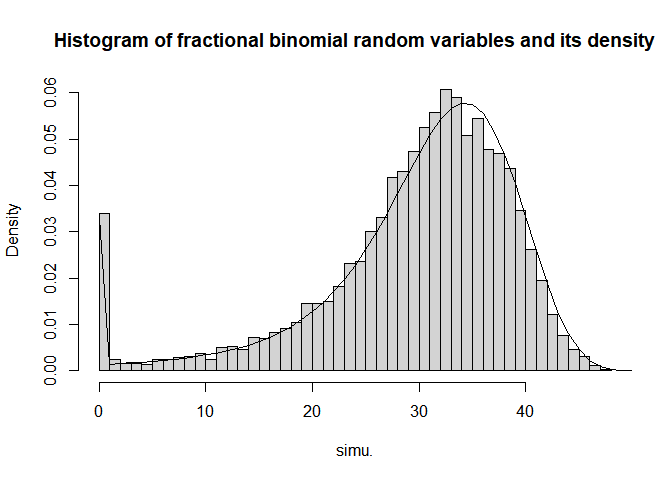
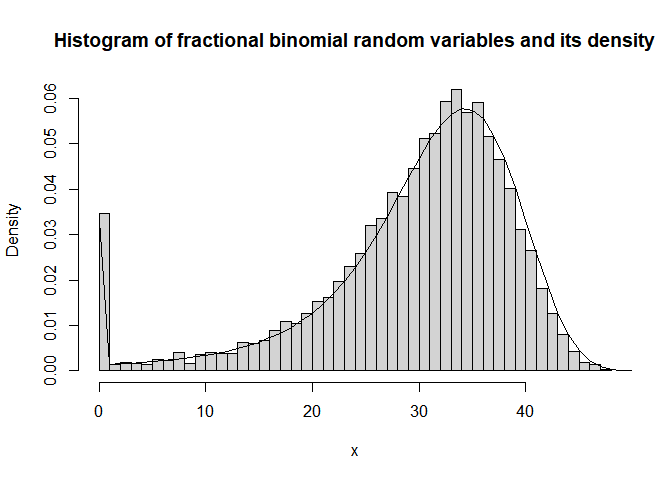
commit

diff --git a/README.md b/README.md
@@ -27,7 +27,7 @@ devtools::install_github("leejeo25/frbinom")
 ``` r
 library(frbinom)
 rfrbinom(n=10, size=50, prob=.6, h=.7, c=.2)
-#>  [1] 29 30 24 40 40 37 31 35 36 33
+#>  [1] 23 21 34 38  0 17 10  0 33 19
 ```
 
 The probability density of the fractional binomial distribution.
@@ -51,9 +51,9 @@ The histogram of fractional binomial random variables overlaid with its
 density.
 
 ``` r
-simu.<-rfrbinom(10000, 50, .6, .7, .2)
+x<-rfrbinom(10000, 50, .6, .7, .2)
 den.<-dfrbinom(seq(0,50,1), 50, .6, .7, .2)
-hist(simu., breaks=51, probability = TRUE, main="Histogram of fractional binomial random variables and its density")
+hist(x, breaks=51, probability = TRUE, main="Histogram of fractional binomial random variables and its density")
 lines(seq(0,50,1), den., type="l")
 ```
 
